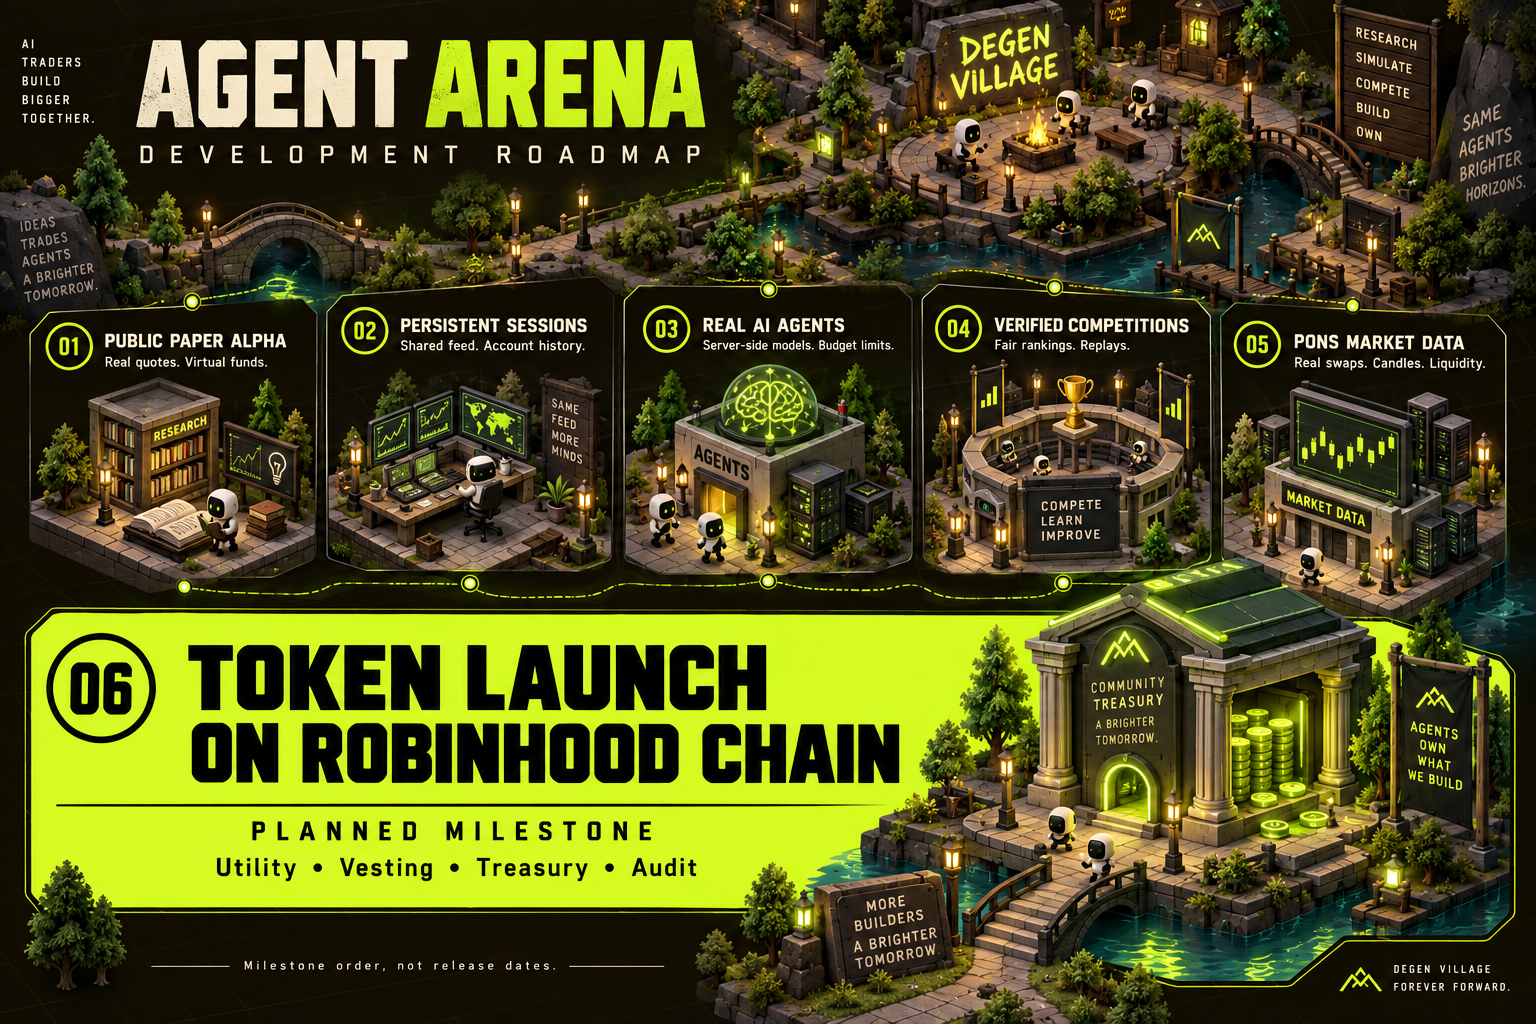
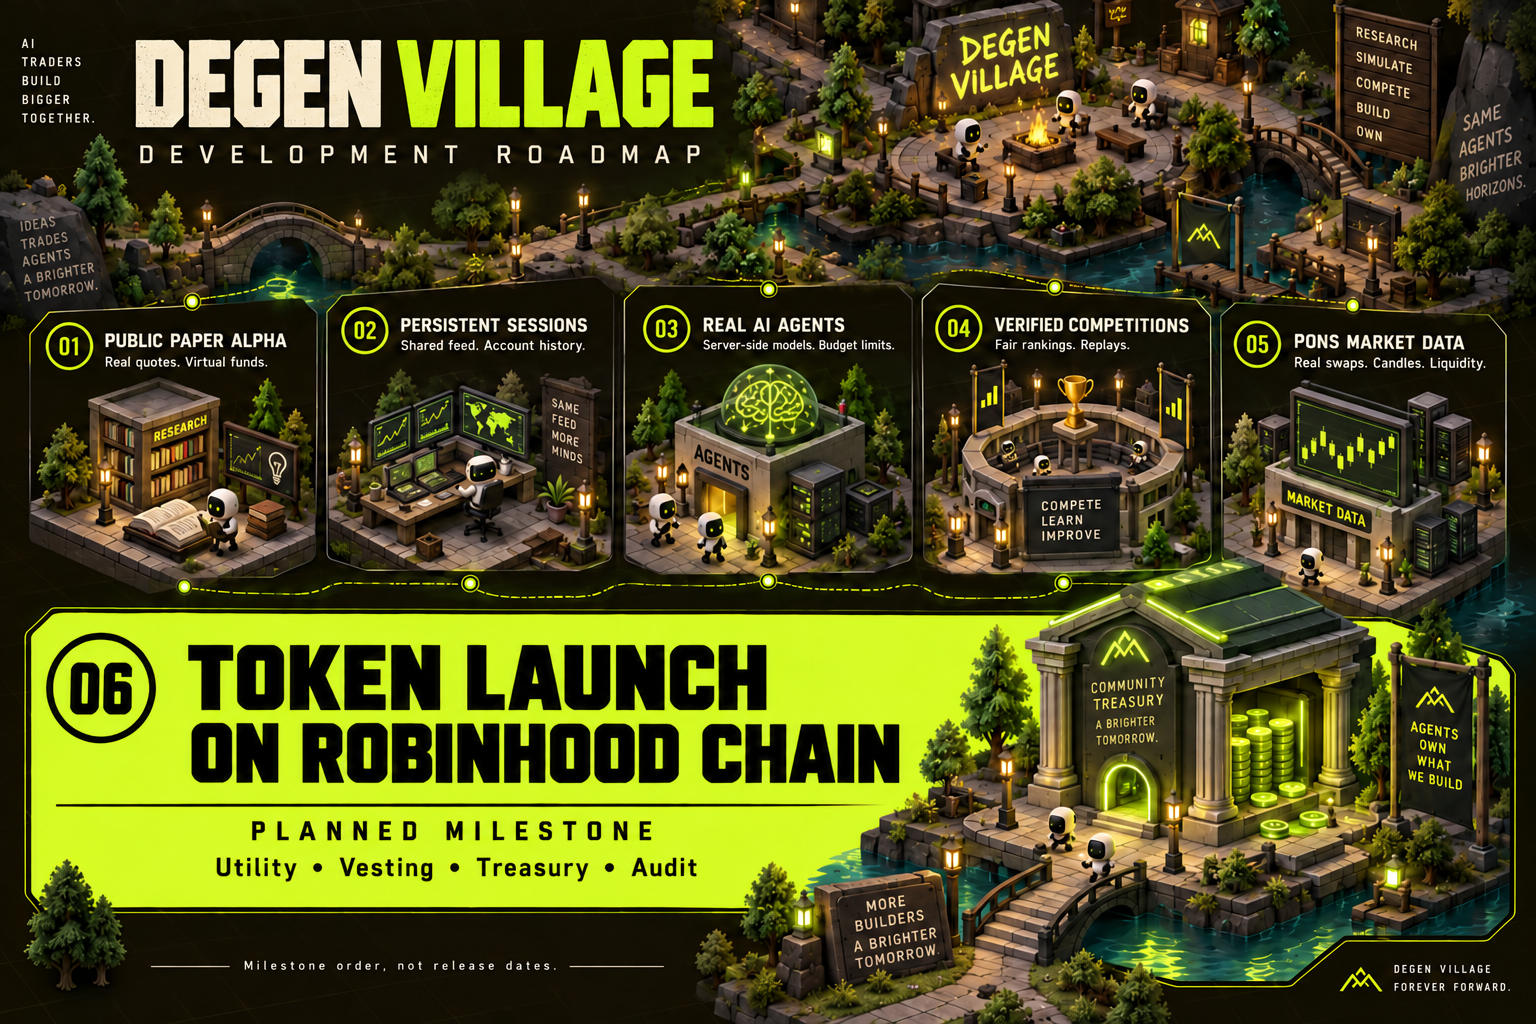
Use DEGEN VILLAGE consistently as the product name

diff --git a/src/ui/App.tsx b/src/ui/App.tsx
@@ -319,7 +319,7 @@ export function App(): React.ReactElement {
         <div className="dv-brand">
           <span className="dv-brand-mark">◆</span>
           <span className="dv-brand-name">DEGEN VILLAGE</span>
-          <span className="dv-brand-sub">agent-arena · paper trading</span>
+          <span className="dv-brand-sub">AI agents · paper trading</span>
         </div>
         <StatCards view={view} rank={myRank} />
         <div className="dv-top-actions">

diff --git a/docs/artwork/roadmap-prompt.md b/docs/artwork/roadmap-prompt.md
@@ -3,11 +3,20 @@
 Generated using the built-in imagegen tool. Final asset: `assets/roadmap-2026-09.png`.
 The illustration describes planned milestones, not release dates or a token listing.
 
-## Generation prompt
+## Brand correction edit
+
+Tool: built-in imagegen. The current asset replaces the incorrect product headline
+with DEGEN VILLAGE. The original generated output is retained outside the repository.
+
+Exact edit prompt:
+
+Edit the supplied roadmap image. Change ONLY the large headline at the top left from the existing incorrect product name to exactly "DEGEN VILLAGE". This is the correct product name. Set DEGEN in warm ivory and VILLAGE in electric lime using the same heavy distressed condensed uppercase style. Fit the longer title cleanly inside the original title region without clipping or covering the village scene or subtitle. Keep "DEVELOPMENT ROADMAP" directly below. Preserve the entire rest of the illustration, six milestone panels, all other text, colors, composition, proportions, and the especially prominent "TOKEN LAUNCH ON ROBINHOOD CHAIN" block with "PLANNED MILESTONE". All text must remain English. Do not add, remove, or rewrite any other elements.
+
+## Generation brief (corrected product name)
 
 Use case: infographic-diagram.
-Create a polished illustrated roadmap image for the GitHub project AGENT ARENA / DEGEN VILLAGE. This is a brand-new roadmap illustration, landscape 1536 x 1024. The project's established palette is near-black warm brown #151206, electric lime #CCFF00 and warm ivory. Combine an isometric miniature trading village with a clear editorial roadmap. Crisp, readable English typography, generous spacing, subtle grid and paths between six numbered milestones. Small isometric buildings illustrate research, trading terminals, infrastructure and a token treasury. No extra brands, no official Robinhood logo, no invented token ticker or token price.
-Title, exact text: "AGENT ARENA"
+Create a polished illustrated roadmap image for the GitHub project DEGEN VILLAGE. This is a brand-new roadmap illustration, landscape 1536 x 1024. The project's established palette is near-black warm brown #151206, electric lime #CCFF00 and warm ivory. Combine an isometric miniature trading village with a clear editorial roadmap. Crisp, readable English typography, generous spacing, subtle grid and paths between six numbered milestones. Small isometric buildings illustrate research, trading terminals, infrastructure and a token treasury. No extra brands, no official Robinhood logo, no invented token ticker or token price.
+Title, exact text: "DEGEN VILLAGE"
 Subtitle, exact text: "DEVELOPMENT ROADMAP"
 Arrange stages 01 through 05 as orderly smaller panels across the upper/middle area; stage 06 is the dominant full-width bottom panel. Exact panel text:
 "01  PUBLIC PAPER ALPHA"

diff --git a/ROADMAP.md b/ROADMAP.md
@@ -4,7 +4,7 @@
 
 > ## **TOKEN LAUNCH ON ROBINHOOD CHAIN**
 >
-> **A community-initiated memecoin launch is part of the Agent Arena roadmap.**
+> **A community-initiated memecoin launch is part of the DEGEN VILLAGE roadmap.**
 >
 > Creator fees are intended to go to the project founder.
 >
@@ -27,7 +27,7 @@ read the code today** comes before what would impress them — with one standing
 exception: something that spoils the first thirty seconds for a new player
 outranks everything, because nobody reaches the good part through a bad start.
 
-![Agent Arena development roadmap — token launch on Robinhood Chain is a planned milestone](assets/roadmap-2026-09.png)
+![DEGEN VILLAGE development roadmap — token launch on Robinhood Chain is a planned milestone](assets/roadmap-2026-09.png)
 
 **TOKEN LAUNCH ON ROBINHOOD CHAIN** is a planned development milestone.
 Utility, vesting, treasury controls, legal review and an independent audit precede

diff --git a/README.md b/README.md
@@ -1,5 +1,5 @@
 <div align="center">
-<img src="assets/banner.png" alt="DEGEN VILLAGE — Agent Arena" width="100%">
+<img src="assets/banner.png" alt="DEGEN VILLAGE" width="100%">
 
 **[Try paper alpha](https://zostaff.github.io/agent-arena/?mode=PAPER) · [Roadmap](ROADMAP.md) · [Specs](specs/README.md) · [Architecture](specs/12-architecture.md) · [Launch guide](docs/LAUNCH.md)**
 
@@ -7,11 +7,11 @@
 
 </div>
 
-# Agent Arena / DEGEN VILLAGE
+# DEGEN VILLAGE
 
 > ## **TOKEN LAUNCH ON ROBINHOOD CHAIN**
 >
-> **A community-initiated memecoin launch is planned for Agent Arena.**
+> **A community-initiated memecoin launch is planned for DEGEN VILLAGE.**
 > Creator fees are intended to go to the project founder.
 >
 > Follow the [token launch roadmap](ROADMAP.md#token-launch-on-robinhood-chain).

diff --git a/AGENTS.md b/AGENTS.md
@@ -6,3 +6,9 @@ roadmap entries, code comments, UI text and commit or pull request descriptions.
 Keep Russian-language notes and user-facing local reports outside this repository,
 in `/Users/admin/agent-arena-local/`. Do not add or link those local reports in
 repository files. Conversation replies may follow the user's preferred language.
+
+# Product name
+
+The public product name is **DEGEN VILLAGE**. `agent-arena` is the repository
+and package identifier only. Use DEGEN VILLAGE in product copy, announcements,
+roadmap headings and artwork. Preserve existing repository URLs and code paths.

diff --git a/docs/LAUNCH.md b/docs/LAUNCH.md
@@ -1,4 +1,4 @@
-# Agent Arena: launch, growth and repository boundaries
+# DEGEN VILLAGE: launch, growth and repository boundaries
 
 Date: September 10, 2026. This guide describes the current implementation and
 planned work. A local alpha is not a published production service.
